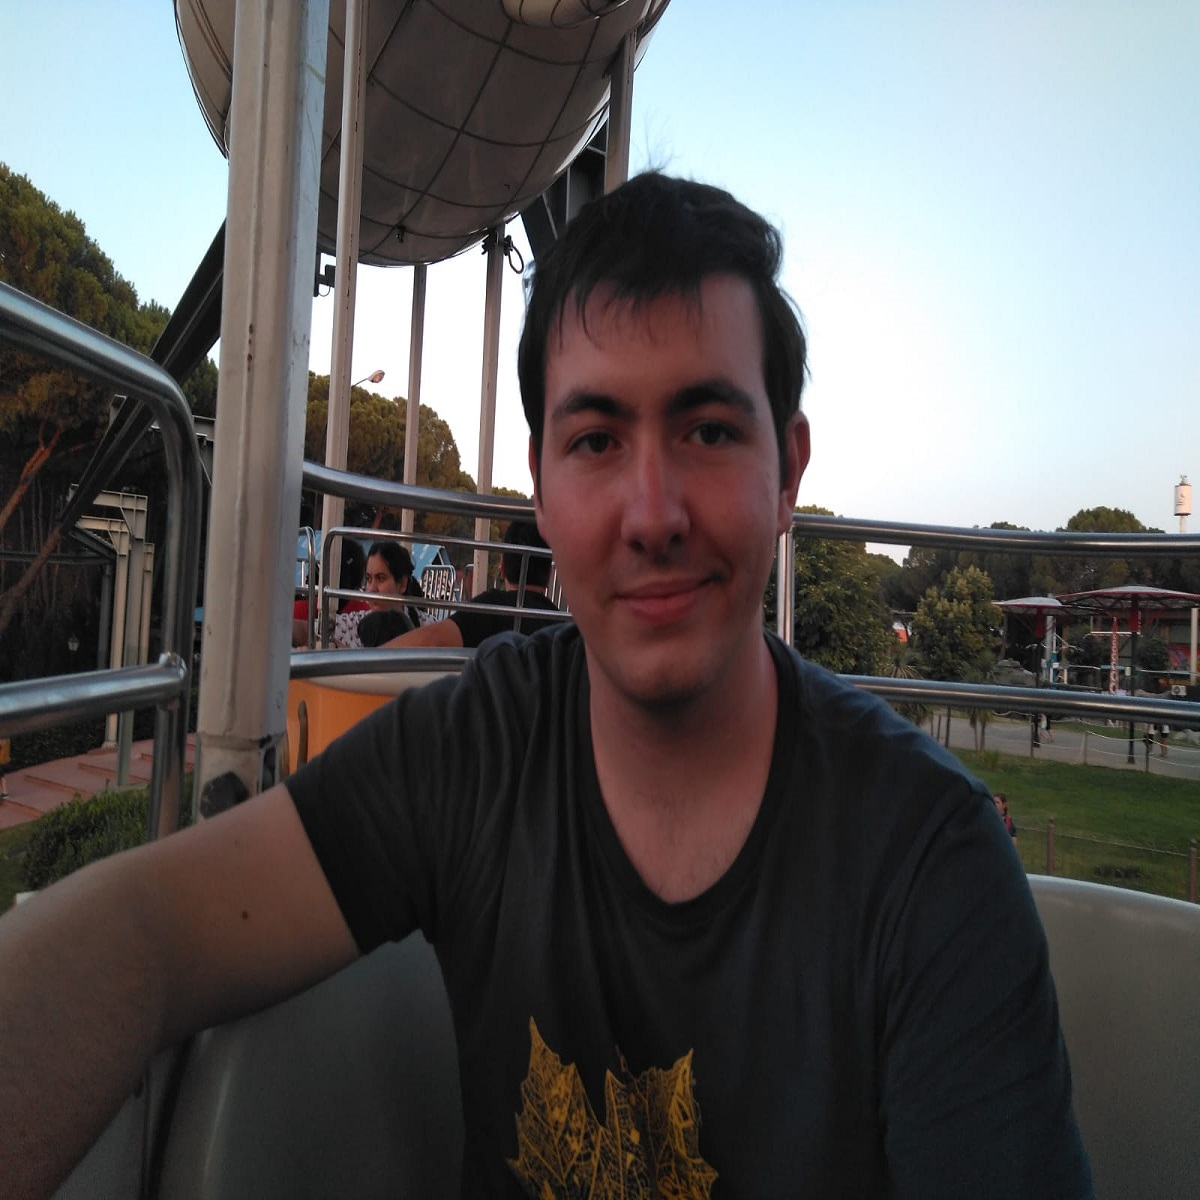
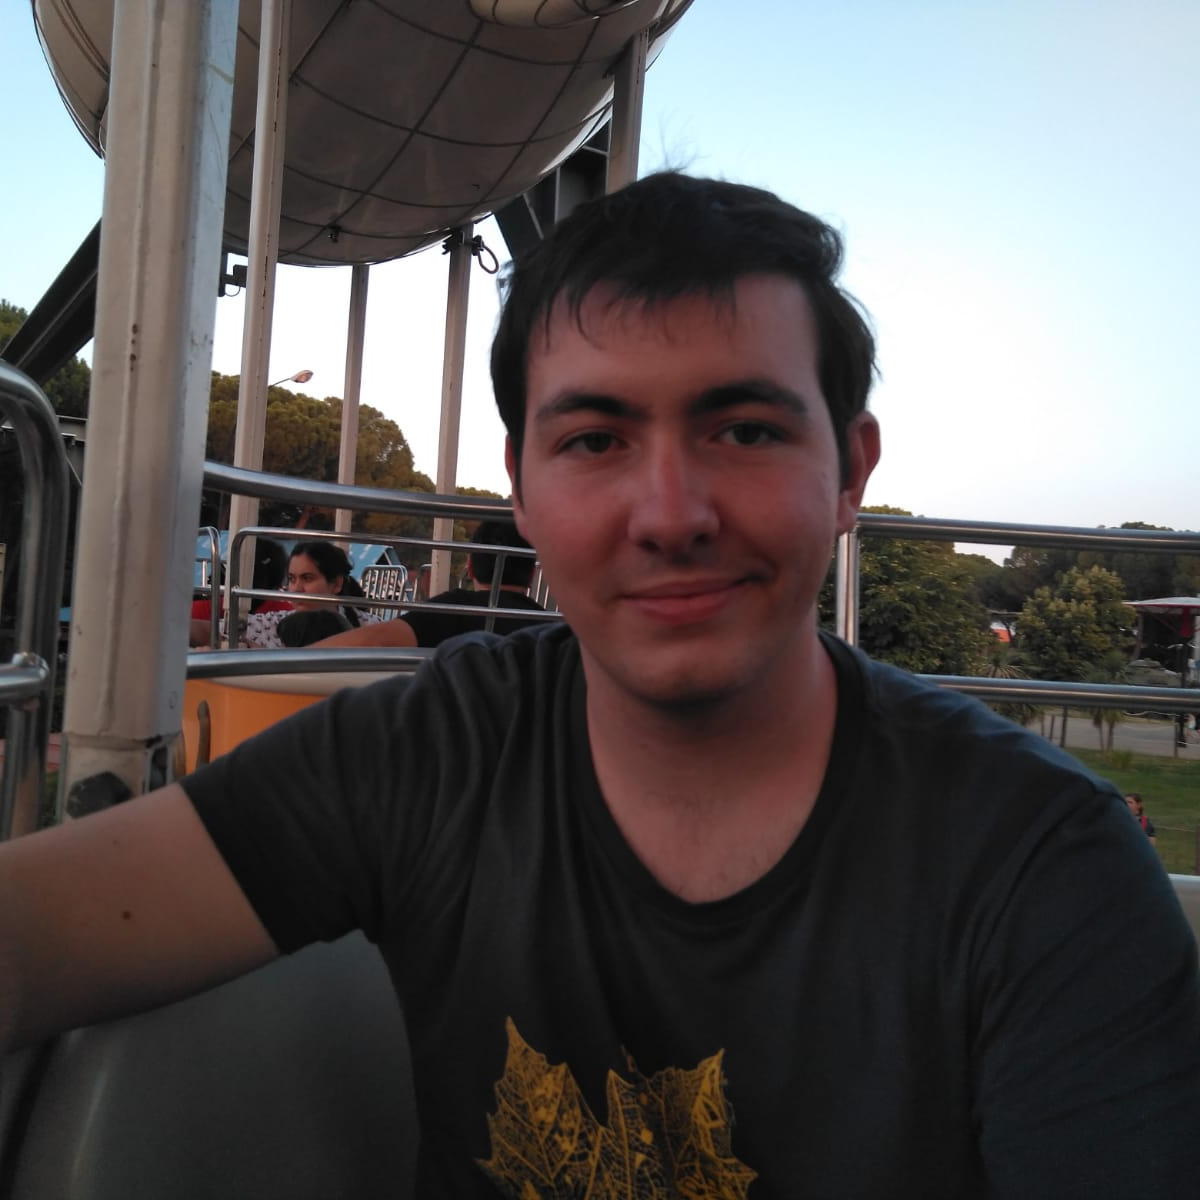
Añadido Imagenes Guays

diff --git a/index.html b/index.html
@@ -320,7 +320,7 @@
         </div>
         <div class="col-xs-12 col-sm-3 col-md-3 col-lg-3" data-wow-delay="0.7s">
           <div class="box-team wow bounceInUp">
-            <img src="img/team/Guille.png" alt="" class="img-circle img-responsive" />
+            <img src="img/team/Guille.jpg" alt="" class="img-circle img-responsive" />
             <h4>Guille Amigó Urda</h4>
             <p>Game Designer</p>
           </div>
